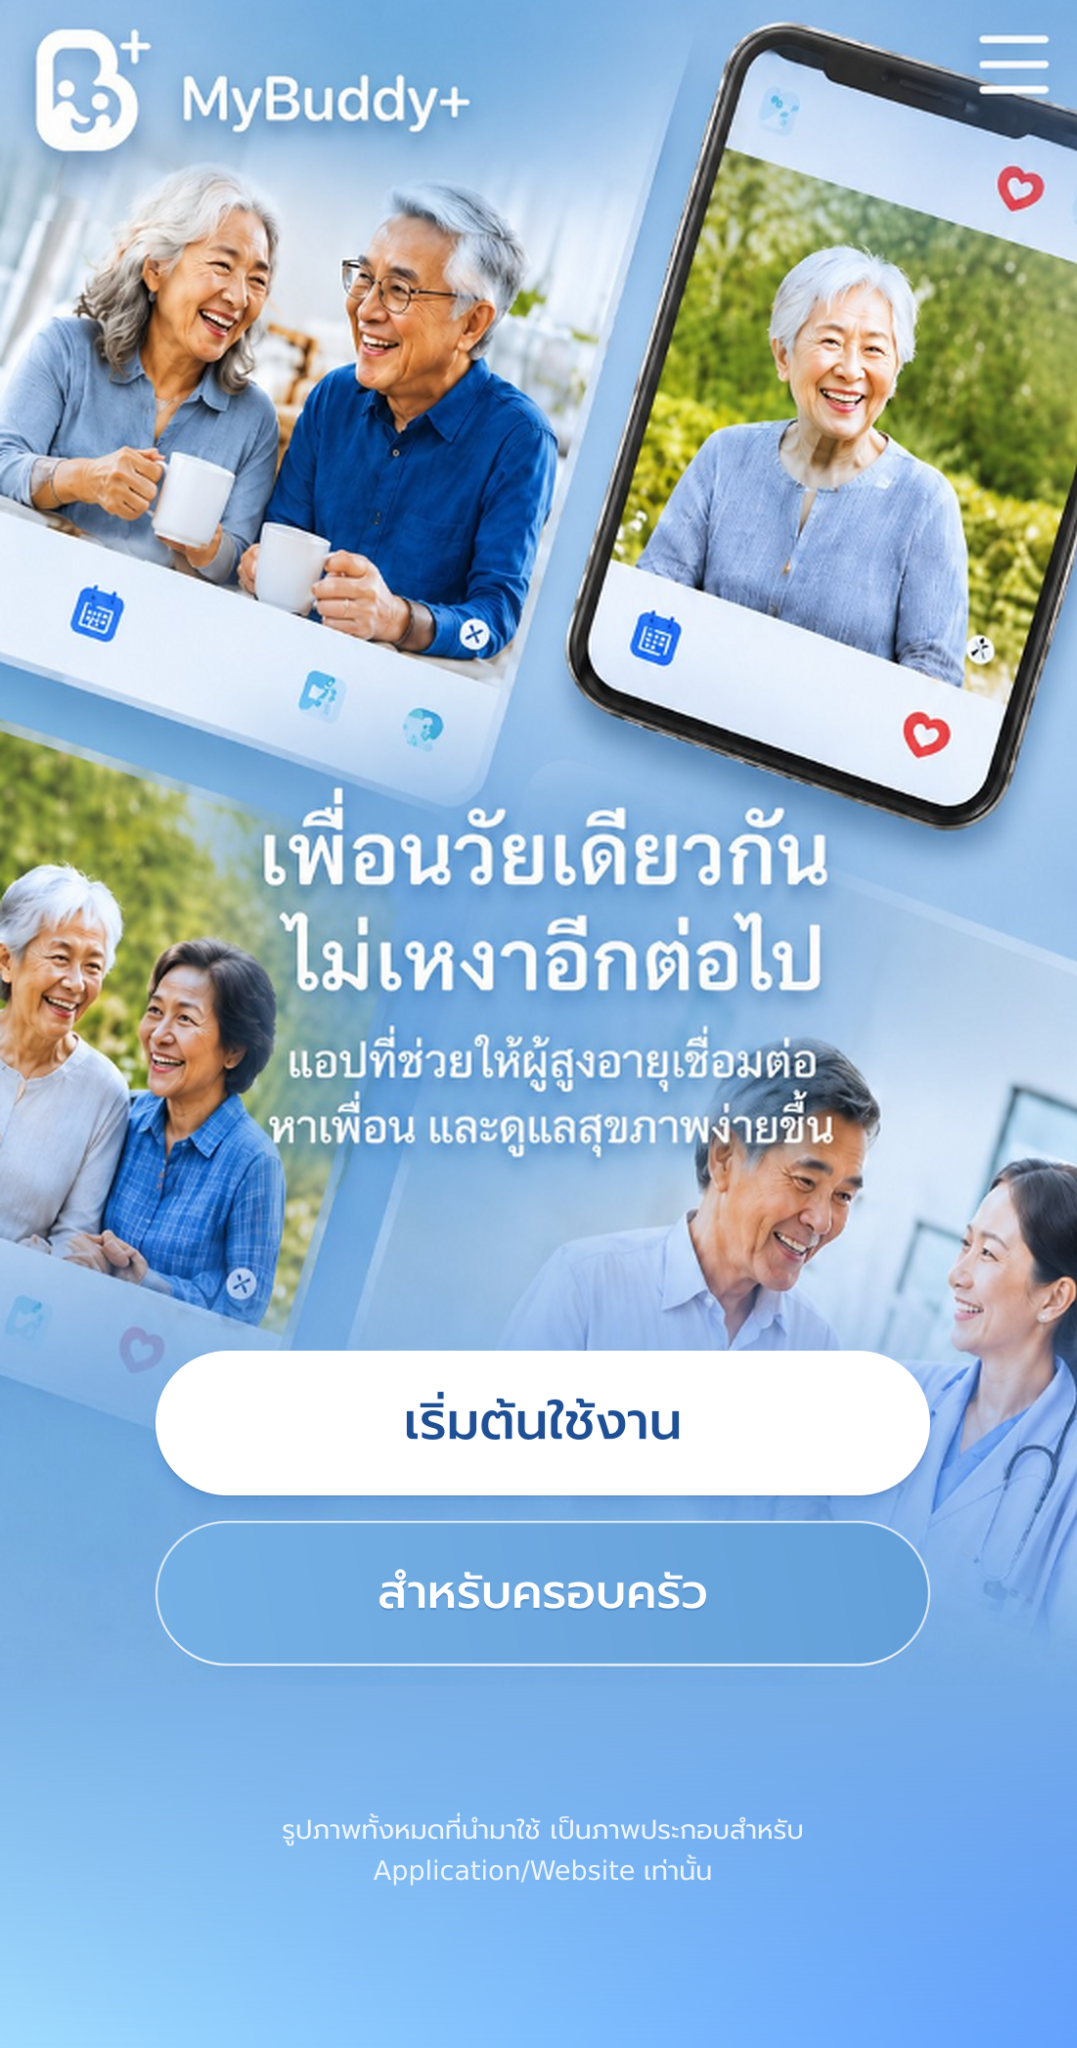
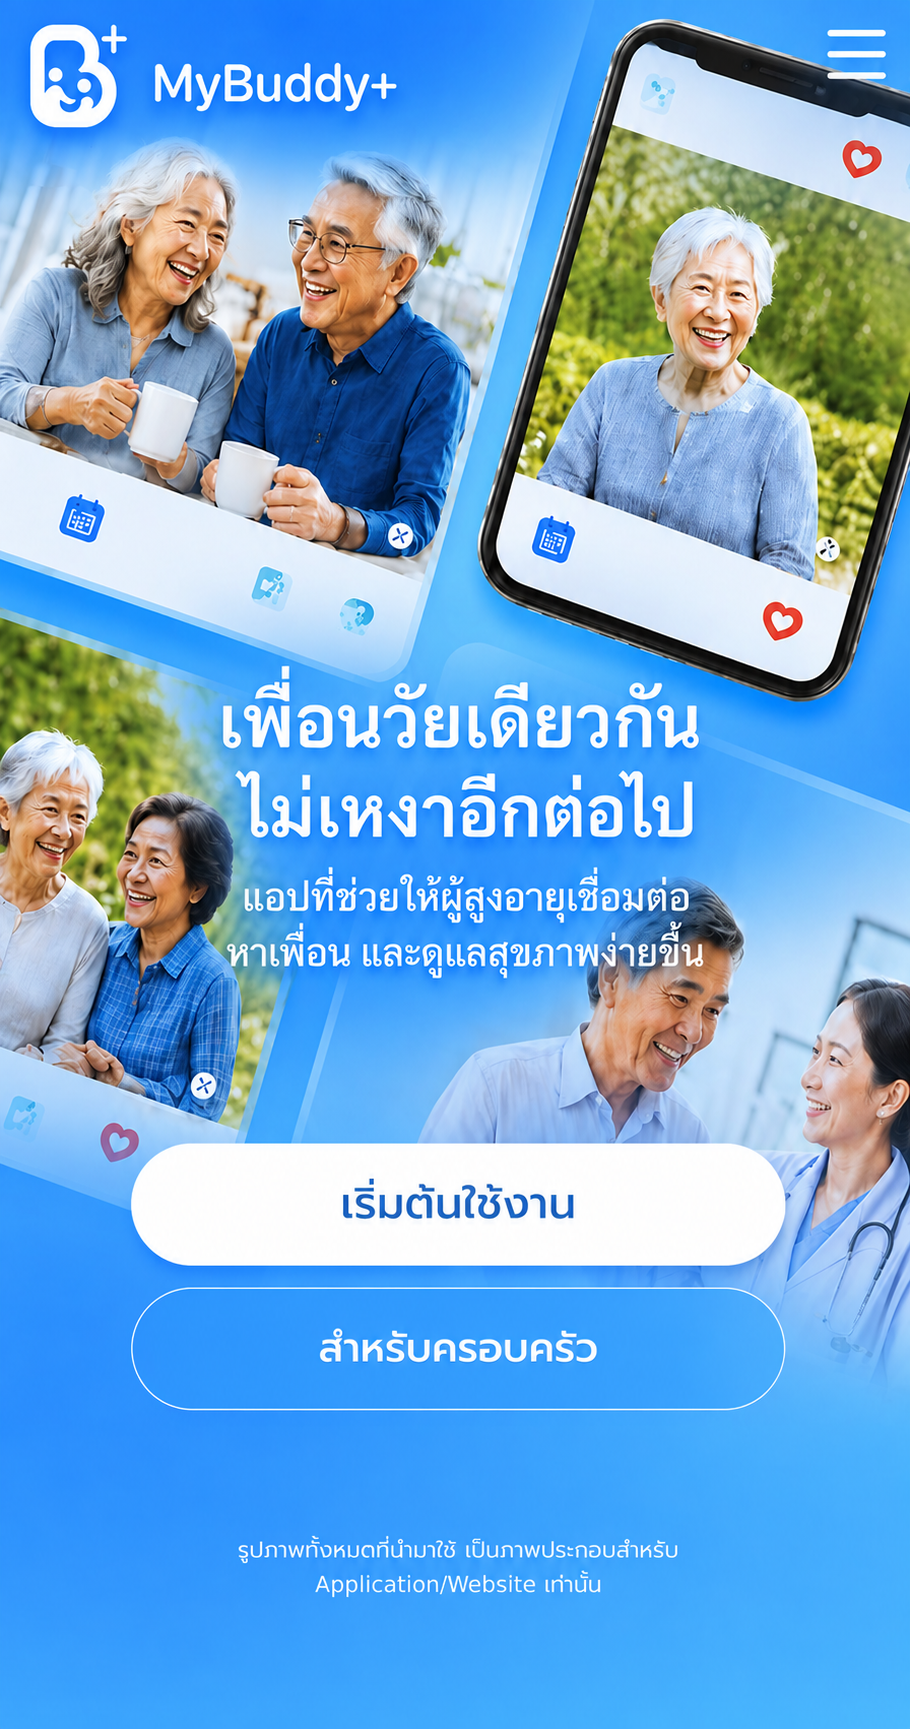
Add files via upload

diff --git a/script.js b/script.js
@@ -1,10 +1,12 @@
 const pages = Array.from(document.querySelectorAll('.app-page'))
 const menuOverlay = document.querySelector('.menu-overlay')
 const toast = document.querySelector('.toast')
+const splashPage = document.querySelector('.splash-page')
 let toastTimer
 
 function showToast(message) {
   window.clearTimeout(toastTimer)
+  if (!toast) return
   toast.textContent = message
   toast.classList.add('show')
   toastTimer = window.setTimeout(() => {
@@ -13,21 +15,37 @@ function showToast(message) {
 }
 
 function closeMenu() {
+  if (!menuOverlay) return
   menuOverlay.classList.remove('open')
   menuOverlay.setAttribute('aria-hidden', 'true')
 }
 
 function openMenu() {
+  if (!menuOverlay) return
   menuOverlay.classList.add('open')
   menuOverlay.setAttribute('aria-hidden', 'false')
 }
 
-function goToPage(pageId) {
+function goToPage(pageId, options = {}) {
+  const targetPage = document.getElementById(pageId)
+  if (!targetPage) return
+
   pages.forEach((page) => {
     page.classList.toggle('active', page.id === pageId)
   })
+  if (splashPage) splashPage.classList.add('is-hidden')
   closeMenu()
+
+  if (options.updateHash !== false && window.location.hash !== `#${pageId}`) {
+    window.history.pushState(null, '', `#${pageId}`)
+  }
 }
+
+window.goToPage = goToPage
+
+window.setTimeout(() => {
+  if (splashPage) splashPage.classList.add('is-hidden')
+}, 3900)
 
 document.querySelectorAll('[data-open-menu]').forEach((button) => {
   button.addEventListener('click', openMenu)
@@ -38,17 +56,10 @@ document.querySelectorAll('[data-close-menu]').forEach((button) => {
 })
 
 document.querySelectorAll('[data-go]').forEach((button) => {
-  button.addEventListener('click', () => {
+  button.addEventListener('click', (event) => {
+    event.preventDefault()
     goToPage(button.dataset.go)
   })
-})
-
-document.querySelector('.hotspot.start').addEventListener('click', () => {
-  goToPage('login')
-})
-
-document.querySelector('.hotspot.family').addEventListener('click', () => {
-  goToPage('family')
 })
 
 document.querySelectorAll('[data-toast]').forEach((button) => {
@@ -57,10 +68,22 @@ document.querySelectorAll('[data-toast]').forEach((button) => {
   })
 })
 
-menuOverlay.addEventListener('click', (event) => {
-  if (event.target === menuOverlay) closeMenu()
+if (menuOverlay) {
+  menuOverlay.addEventListener('click', (event) => {
+    if (event.target === menuOverlay) closeMenu()
+  })
+}
+
+window.addEventListener('popstate', () => {
+  const pageId = window.location.hash.replace('#', '') || 'home'
+  goToPage(pageId, { updateHash: false })
 })
 
 window.addEventListener('keydown', (event) => {
   if (event.key === 'Escape') closeMenu()
 })
+
+const initialPageId = window.location.hash.replace('#', '')
+if (initialPageId) {
+  goToPage(initialPageId, { updateHash: false })
+}

diff --git a/styles.css b/styles.css
@@ -24,8 +24,8 @@ button {
 
 .phone-app {
   position: relative;
-  width: min(100vw, calc(100svh * 864 / 1872));
-  height: min(100svh, calc(100vw * 1872 / 864));
+  width: min(100vw, calc(100svh * 910 / 1729));
+  height: min(100svh, calc(100vw * 1729 / 910));
   margin: 0 auto;
   overflow: hidden;
   background: #0588ff;
@@ -45,6 +45,12 @@ button {
 .splash-page {
   z-index: 3;
   animation: splashOut .75s ease 3s forwards;
+}
+
+.splash-page.is-hidden {
+  opacity: 0;
+  visibility: hidden;
+  pointer-events: none;
 }
 
 .landing-page {
@@ -102,26 +108,26 @@ button {
 }
 
 .hotspot.menu {
-  top: 1.35%;
-  right: 3.6%;
-  width: 10%;
-  height: 5.2%;
+  top: 1.25%;
+  right: 2.4%;
+  width: 9%;
+  height: 4.9%;
   border-radius: 14px;
 }
 
 .hotspot.start {
-  left: 14.4%;
-  top: 71.4%;
-  width: 71.2%;
-  height: 6.2%;
+  left: 14.2%;
+  top: 67.4%;
+  width: 72%;
+  height: 7.2%;
   border-radius: 999px;
 }
 
 .hotspot.family {
-  left: 14.4%;
-  top: 80.2%;
-  width: 71.2%;
-  height: 6.1%;
+  left: 14.2%;
+  top: 76.15%;
+  width: 72%;
+  height: 7.2%;
   border-radius: 999px;
 }
 

diff --git a/index.html b/index.html
@@ -14,8 +14,8 @@
 
       <section class="landing-page app-page active" id="home" aria-label="หน้าแนะนำ MyBuddy+">
         <img src="assets/landing-page.png" alt="MyBuddy+ แอปหาเพื่อนและดูแลสุขภาพสำหรับผู้สูงอายุ" />
-        <button class="hotspot start" type="button" aria-label="เริ่มต้นใช้งาน"></button>
-        <button class="hotspot family" type="button" aria-label="สำหรับครอบครัว"></button>
+        <button class="hotspot start" type="button" aria-label="เริ่มต้นใช้งาน" data-go="login"></button>
+        <button class="hotspot family" type="button" aria-label="สำหรับครอบครัว" data-go="family"></button>
         <button class="hotspot menu" type="button" aria-label="เปิดเมนู" data-open-menu></button>
       </section>
 
@@ -150,6 +150,6 @@
 
       <p class="toast" role="status" aria-live="polite"></p>
     </main>
-    <script src="script.js"></script>
+    <script src="script.js?v=20260721-2"></script>
   </body>
 </html>